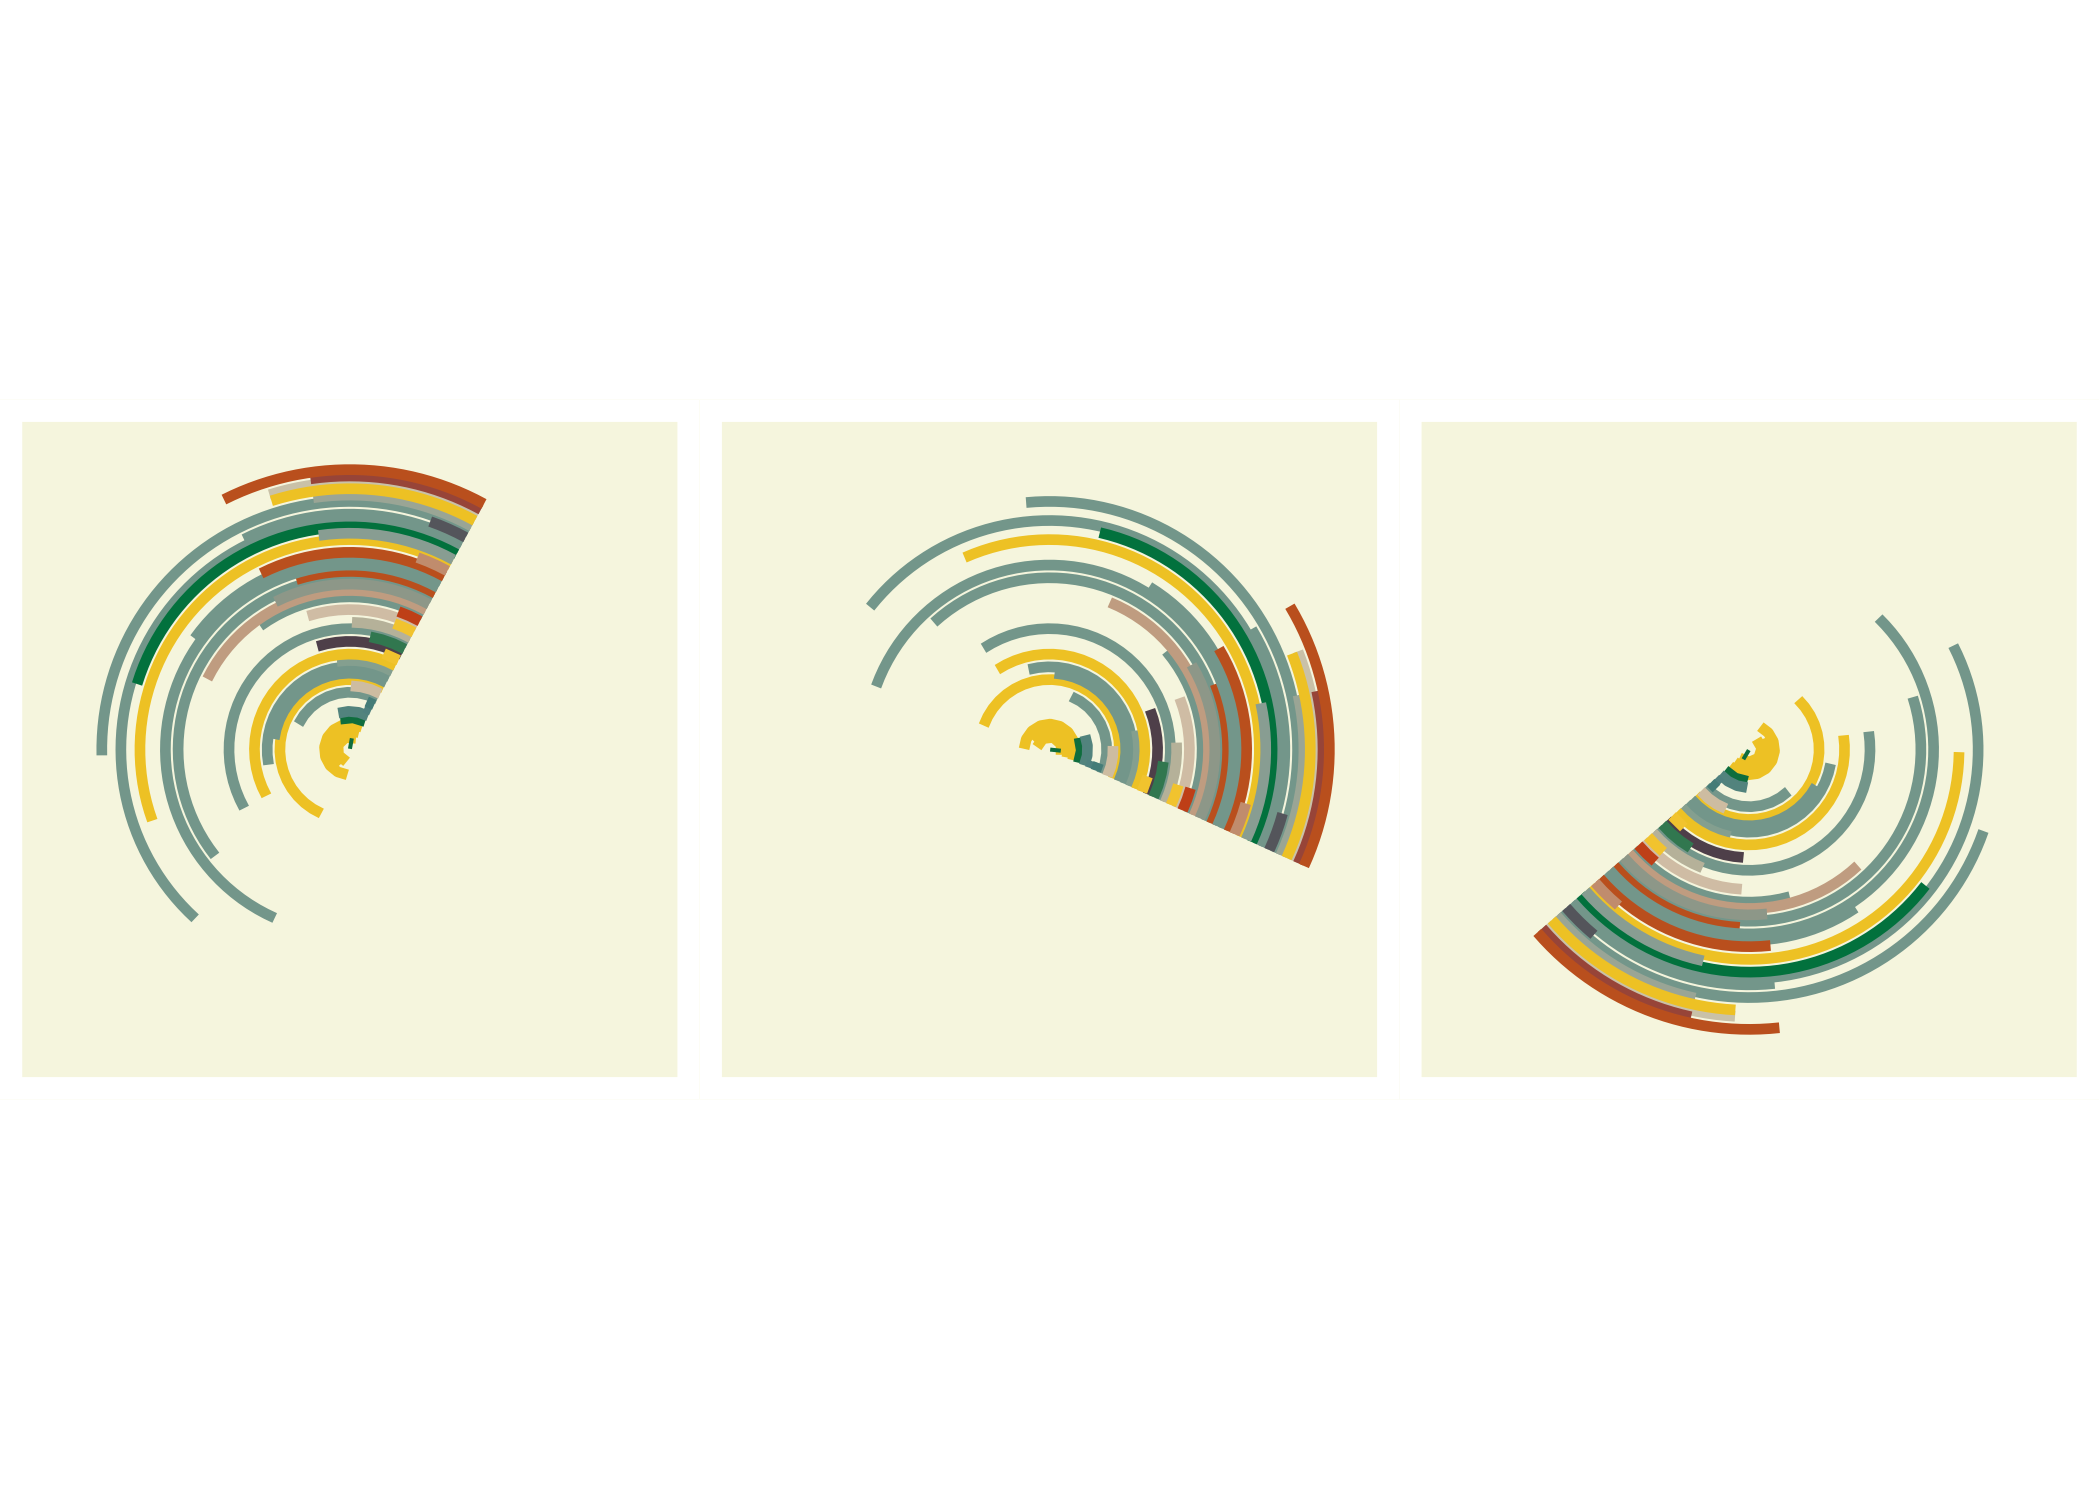
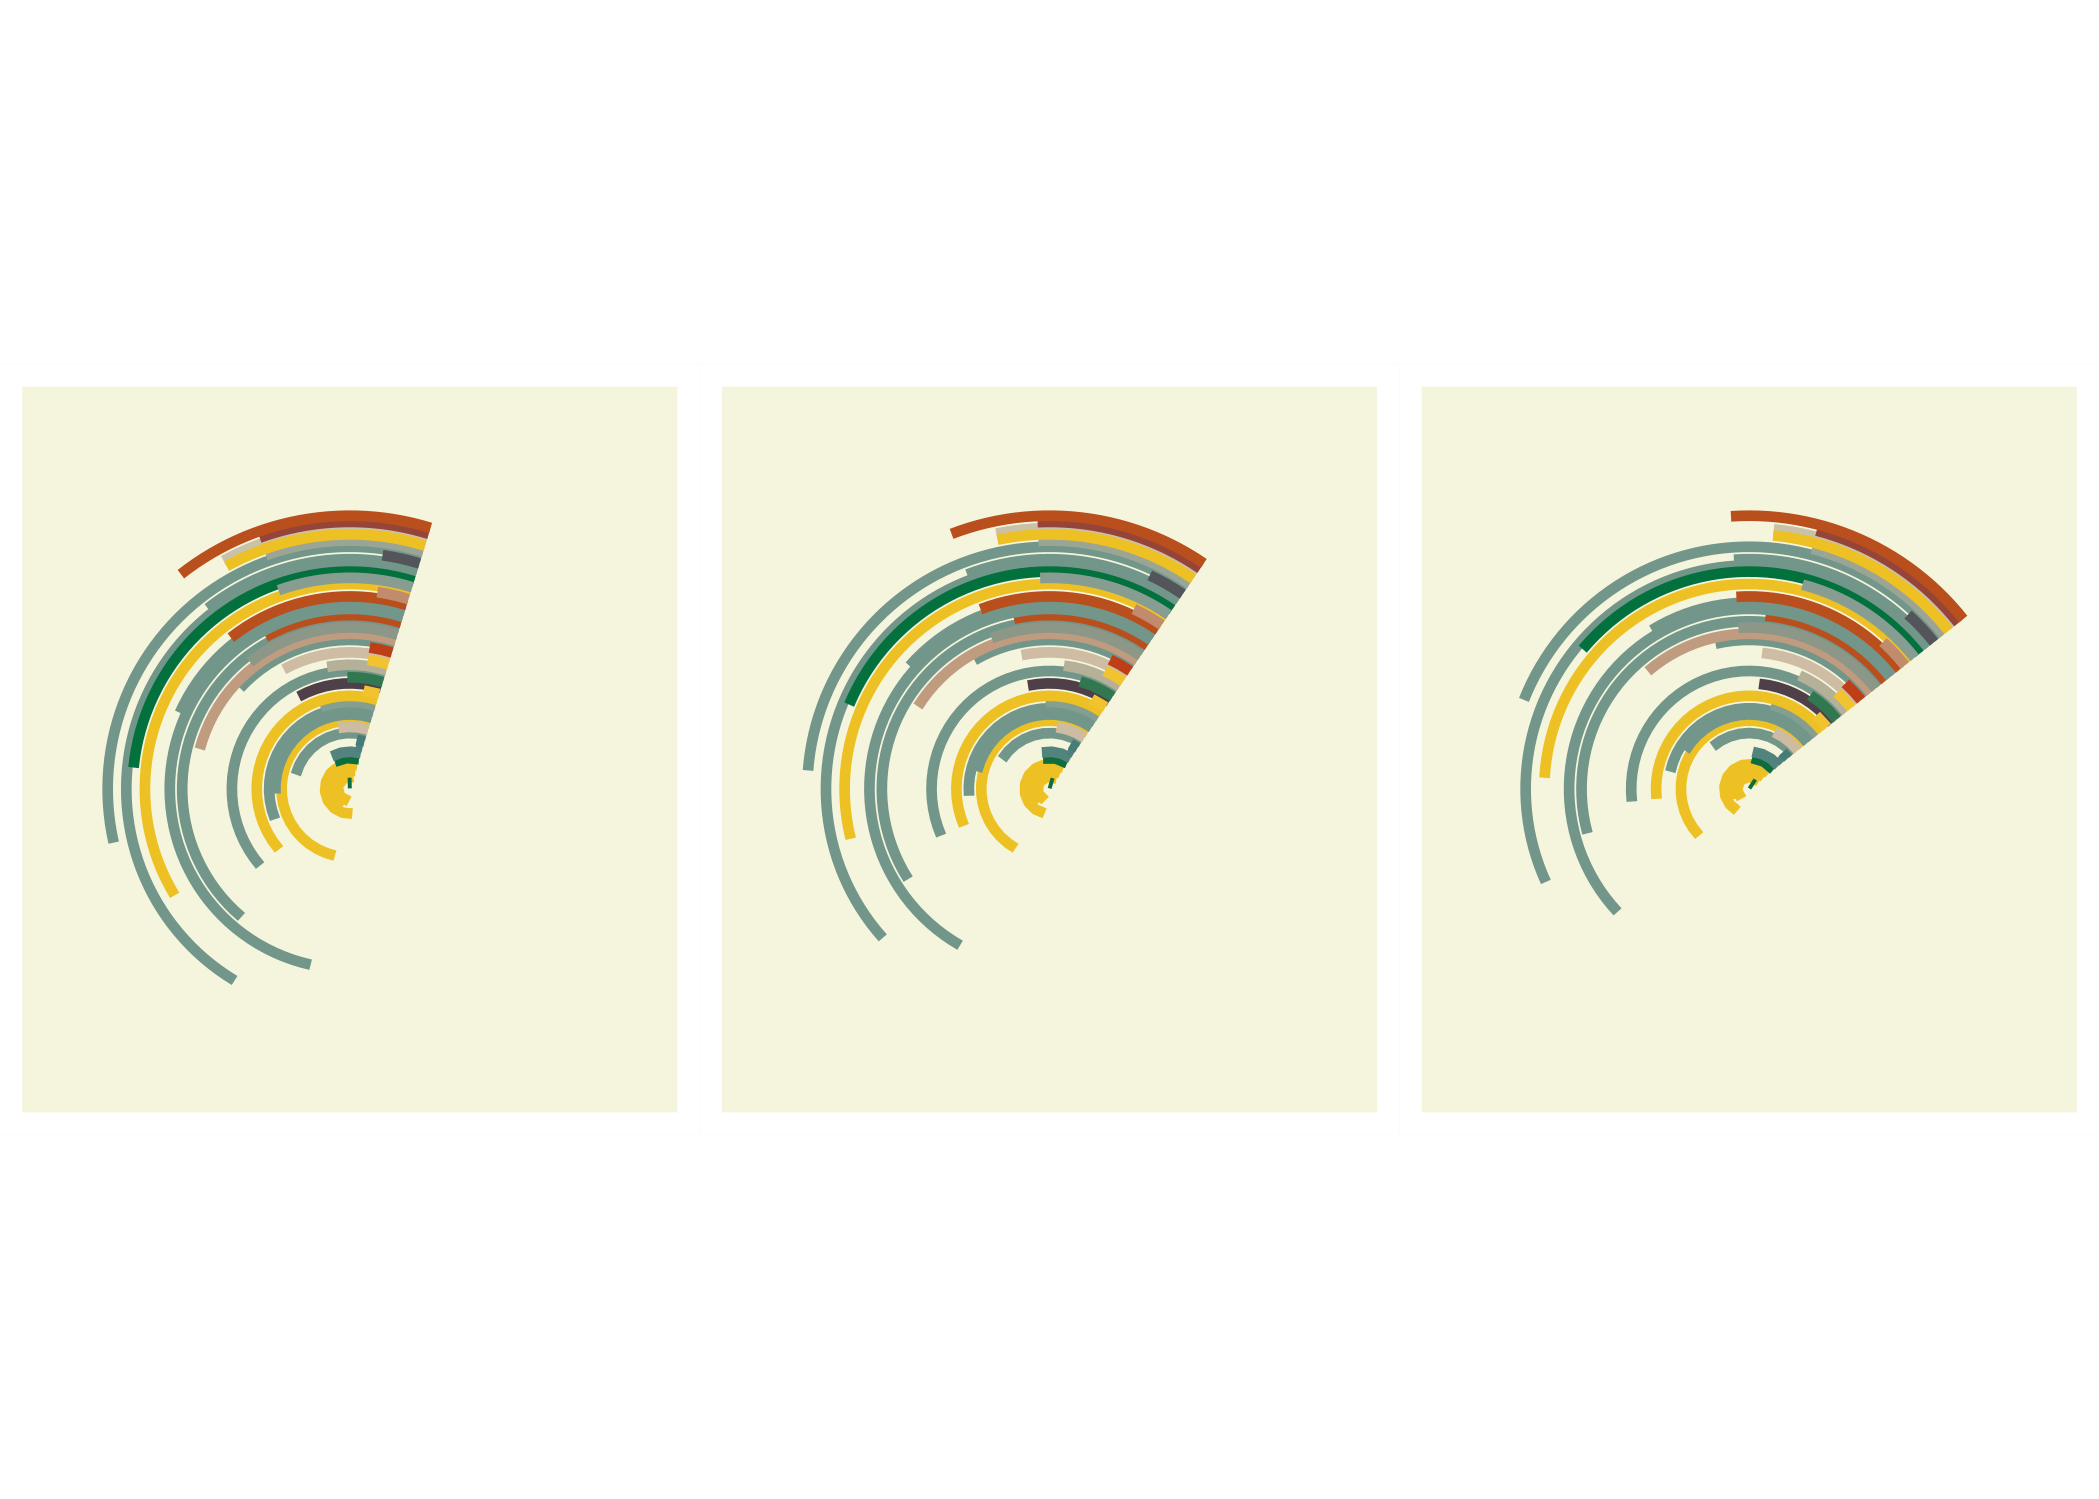
change tl rotation

Changed region(s): [[0.0, 0.2455, 0.9909, 0.6444], [0.0, 0.3376, 0.9909, 0.7672], [0.4335, 0.6137, 0.4645, 0.6444]]

diff --git a/index.html b/index.html
@@ -228,19 +228,20 @@ pre > code.sourceCode > span > a:first-child::before { text-decoration: underlin
 <span id="cb2-11"><a href="#cb2-11" aria-hidden="true" tabindex="-1"></a>  <span class="fu">xlim</span>(<span class="dv">1985</span>, this_year) <span class="sc">+</span></span>
 <span id="cb2-12"><a href="#cb2-12" aria-hidden="true" tabindex="-1"></a>  <span class="fu">theme</span>(<span class="at">legend.position =</span> <span class="st">"none"</span>,</span>
 <span id="cb2-13"><a href="#cb2-13" aria-hidden="true" tabindex="-1"></a>        <span class="at">plot.background =</span> <span class="fu">element_rect</span>(<span class="at">fill =</span> <span class="st">"#F5F5DD"</span>, </span>
-<span id="cb2-14"><a href="#cb2-14" aria-hidden="true" tabindex="-1"></a>                          <span class="at">colour =</span> <span class="st">"white"</span>, <span class="at">linewidth =</span> <span class="dv">5</span>)) </span>
-<span id="cb2-15"><a href="#cb2-15" aria-hidden="true" tabindex="-1"></a></span>
-<span id="cb2-16"><a href="#cb2-16" aria-hidden="true" tabindex="-1"></a>plot_time <span class="ot">&lt;-</span> </span>
-<span id="cb2-17"><a href="#cb2-17" aria-hidden="true" tabindex="-1"></a>  <span class="fu">ggarrange</span>(</span>
-<span id="cb2-18"><a href="#cb2-18" aria-hidden="true" tabindex="-1"></a>    plot <span class="sc">+</span> <span class="fu">coord_polar</span>(<span class="at">start =</span> <span class="fl">0.5</span>),</span>
-<span id="cb2-19"><a href="#cb2-19" aria-hidden="true" tabindex="-1"></a>    plot <span class="sc">+</span> <span class="fu">coord_polar</span>(<span class="at">start =</span> <span class="dv">2</span>),</span>
-<span id="cb2-20"><a href="#cb2-20" aria-hidden="true" tabindex="-1"></a>    plot <span class="sc">+</span> <span class="fu">coord_polar</span>(<span class="at">start =</span> <span class="dv">4</span>),</span>
-<span id="cb2-21"><a href="#cb2-21" aria-hidden="true" tabindex="-1"></a>    <span class="at">nrow =</span> <span class="dv">1</span></span>
-<span id="cb2-22"><a href="#cb2-22" aria-hidden="true" tabindex="-1"></a>  )</span>
-<span id="cb2-23"><a href="#cb2-23" aria-hidden="true" tabindex="-1"></a></span>
-<span id="cb2-24"><a href="#cb2-24" aria-hidden="true" tabindex="-1"></a><span class="fu">ggsave</span>(plot_time, <span class="at">filename =</span> <span class="st">"./_img/timeline.png"</span>)</span>
-<span id="cb2-25"><a href="#cb2-25" aria-hidden="true" tabindex="-1"></a></span>
-<span id="cb2-26"><a href="#cb2-26" aria-hidden="true" tabindex="-1"></a>plot_time</span></code><button title="Copy to Clipboard" class="code-copy-button"><i class="bi"></i></button></pre></div>
+<span id="cb2-14"><a href="#cb2-14" aria-hidden="true" tabindex="-1"></a>                          <span class="at">colour =</span> <span class="st">"white"</span>, <span class="at">linewidth =</span> <span class="dv">5</span>),</span>
+<span id="cb2-15"><a href="#cb2-15" aria-hidden="true" tabindex="-1"></a>        <span class="at">plot.margin =</span> <span class="fu">margin</span>(<span class="dv">20</span>, <span class="dv">2</span>, <span class="dv">1</span>, <span class="dv">2</span>)) </span>
+<span id="cb2-16"><a href="#cb2-16" aria-hidden="true" tabindex="-1"></a></span>
+<span id="cb2-17"><a href="#cb2-17" aria-hidden="true" tabindex="-1"></a>plot_time <span class="ot">&lt;-</span> </span>
+<span id="cb2-18"><a href="#cb2-18" aria-hidden="true" tabindex="-1"></a>  <span class="fu">ggarrange</span>(</span>
+<span id="cb2-19"><a href="#cb2-19" aria-hidden="true" tabindex="-1"></a>    plot <span class="sc">+</span> <span class="fu">coord_polar</span>(<span class="at">start =</span> <span class="fl">0.3</span>),</span>
+<span id="cb2-20"><a href="#cb2-20" aria-hidden="true" tabindex="-1"></a>    plot <span class="sc">+</span> <span class="fu">coord_polar</span>(<span class="at">start =</span> <span class="fl">0.6</span>),</span>
+<span id="cb2-21"><a href="#cb2-21" aria-hidden="true" tabindex="-1"></a>    plot <span class="sc">+</span> <span class="fu">coord_polar</span>(<span class="at">start =</span> <span class="fl">0.9</span>),</span>
+<span id="cb2-22"><a href="#cb2-22" aria-hidden="true" tabindex="-1"></a>    <span class="at">nrow =</span> <span class="dv">1</span></span>
+<span id="cb2-23"><a href="#cb2-23" aria-hidden="true" tabindex="-1"></a>  )</span>
+<span id="cb2-24"><a href="#cb2-24" aria-hidden="true" tabindex="-1"></a></span>
+<span id="cb2-25"><a href="#cb2-25" aria-hidden="true" tabindex="-1"></a><span class="fu">ggsave</span>(plot_time, <span class="at">filename =</span> <span class="st">"./_img/timeline.png"</span>)</span>
+<span id="cb2-26"><a href="#cb2-26" aria-hidden="true" tabindex="-1"></a></span>
+<span id="cb2-27"><a href="#cb2-27" aria-hidden="true" tabindex="-1"></a>plot_time</span></code><button title="Copy to Clipboard" class="code-copy-button"><i class="bi"></i></button></pre></div>
 </details>
 <div class="cell-output-display">
 <p><img src="index_files/figure-html/unnamed-chunk-2-1.png" class="img-fluid" width="672"></p>
